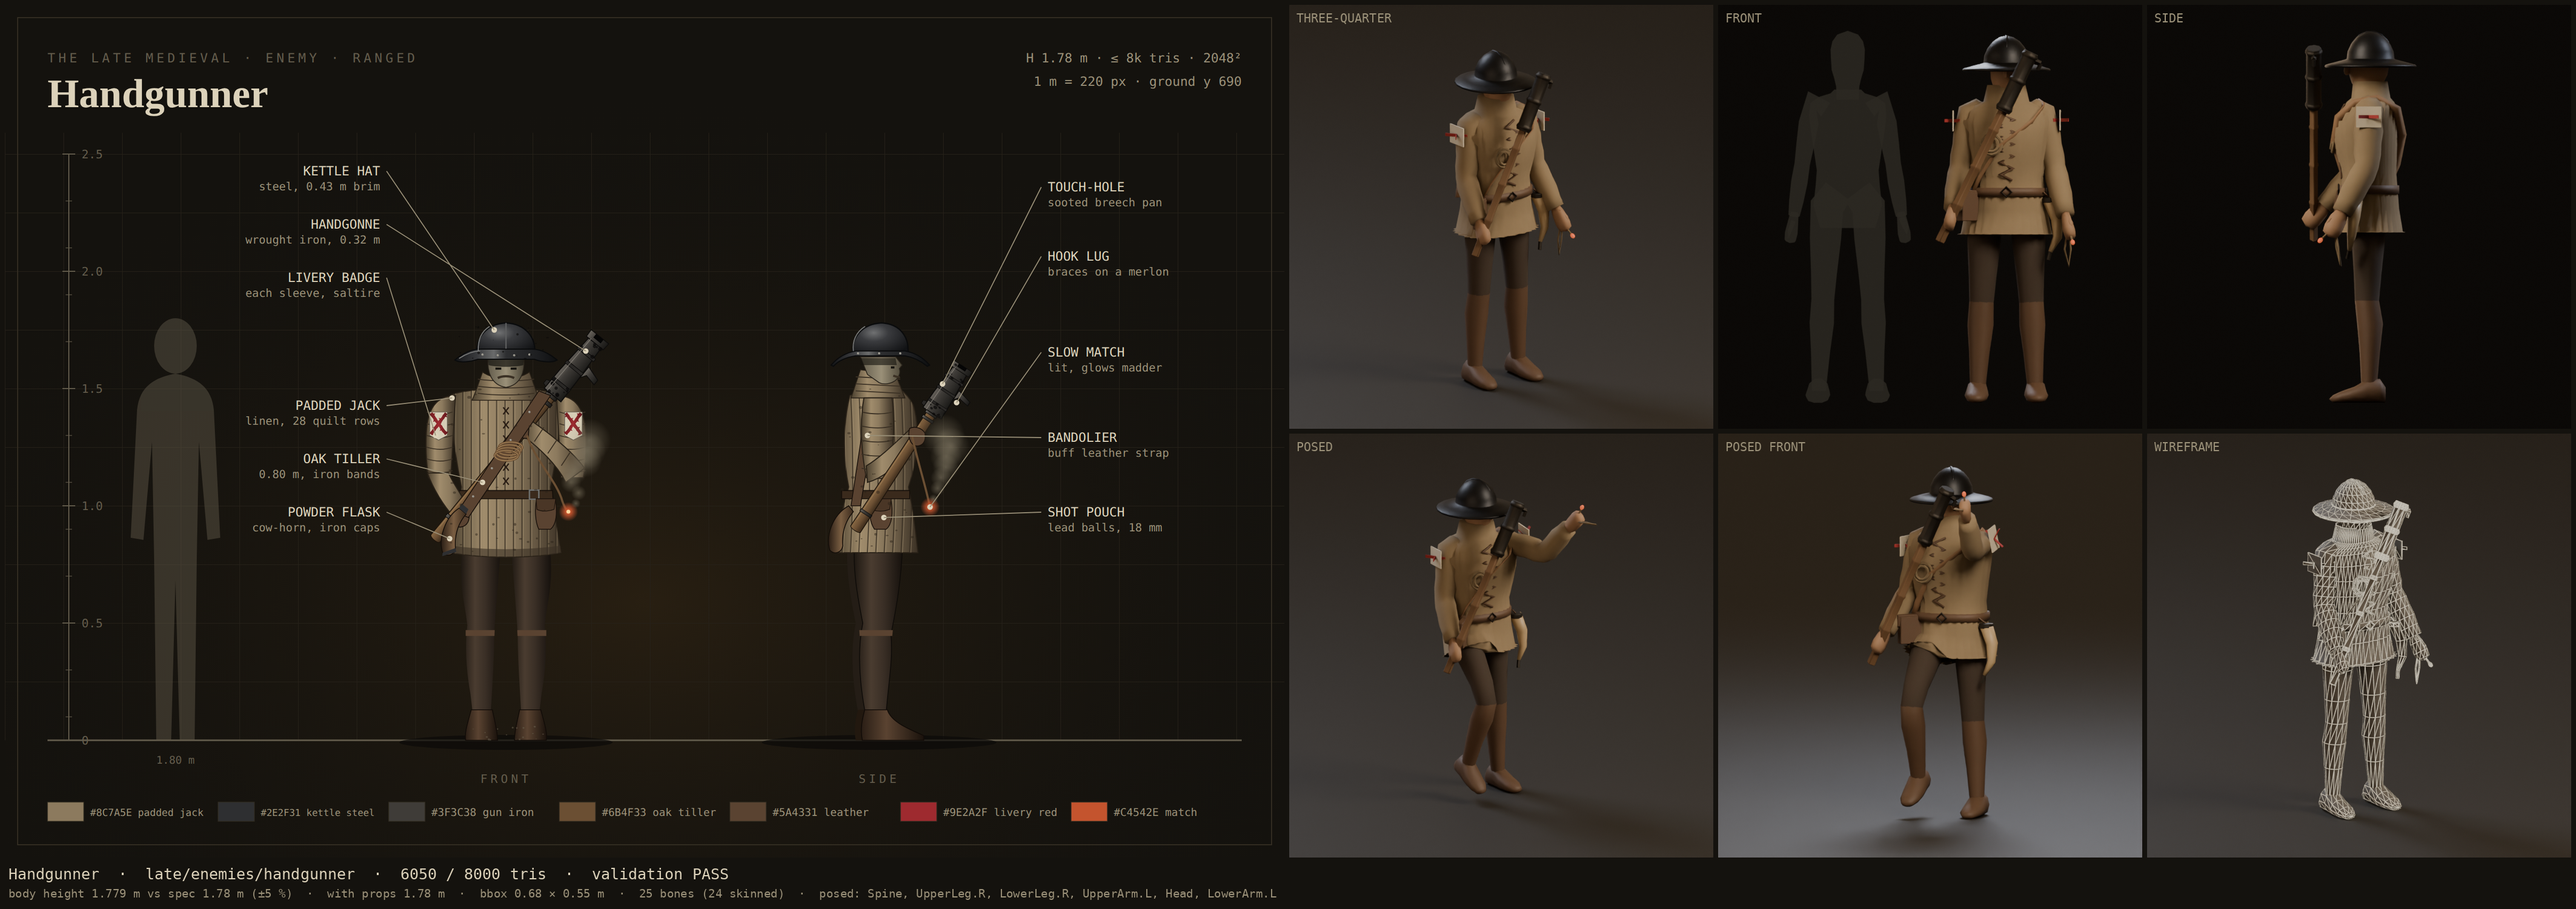
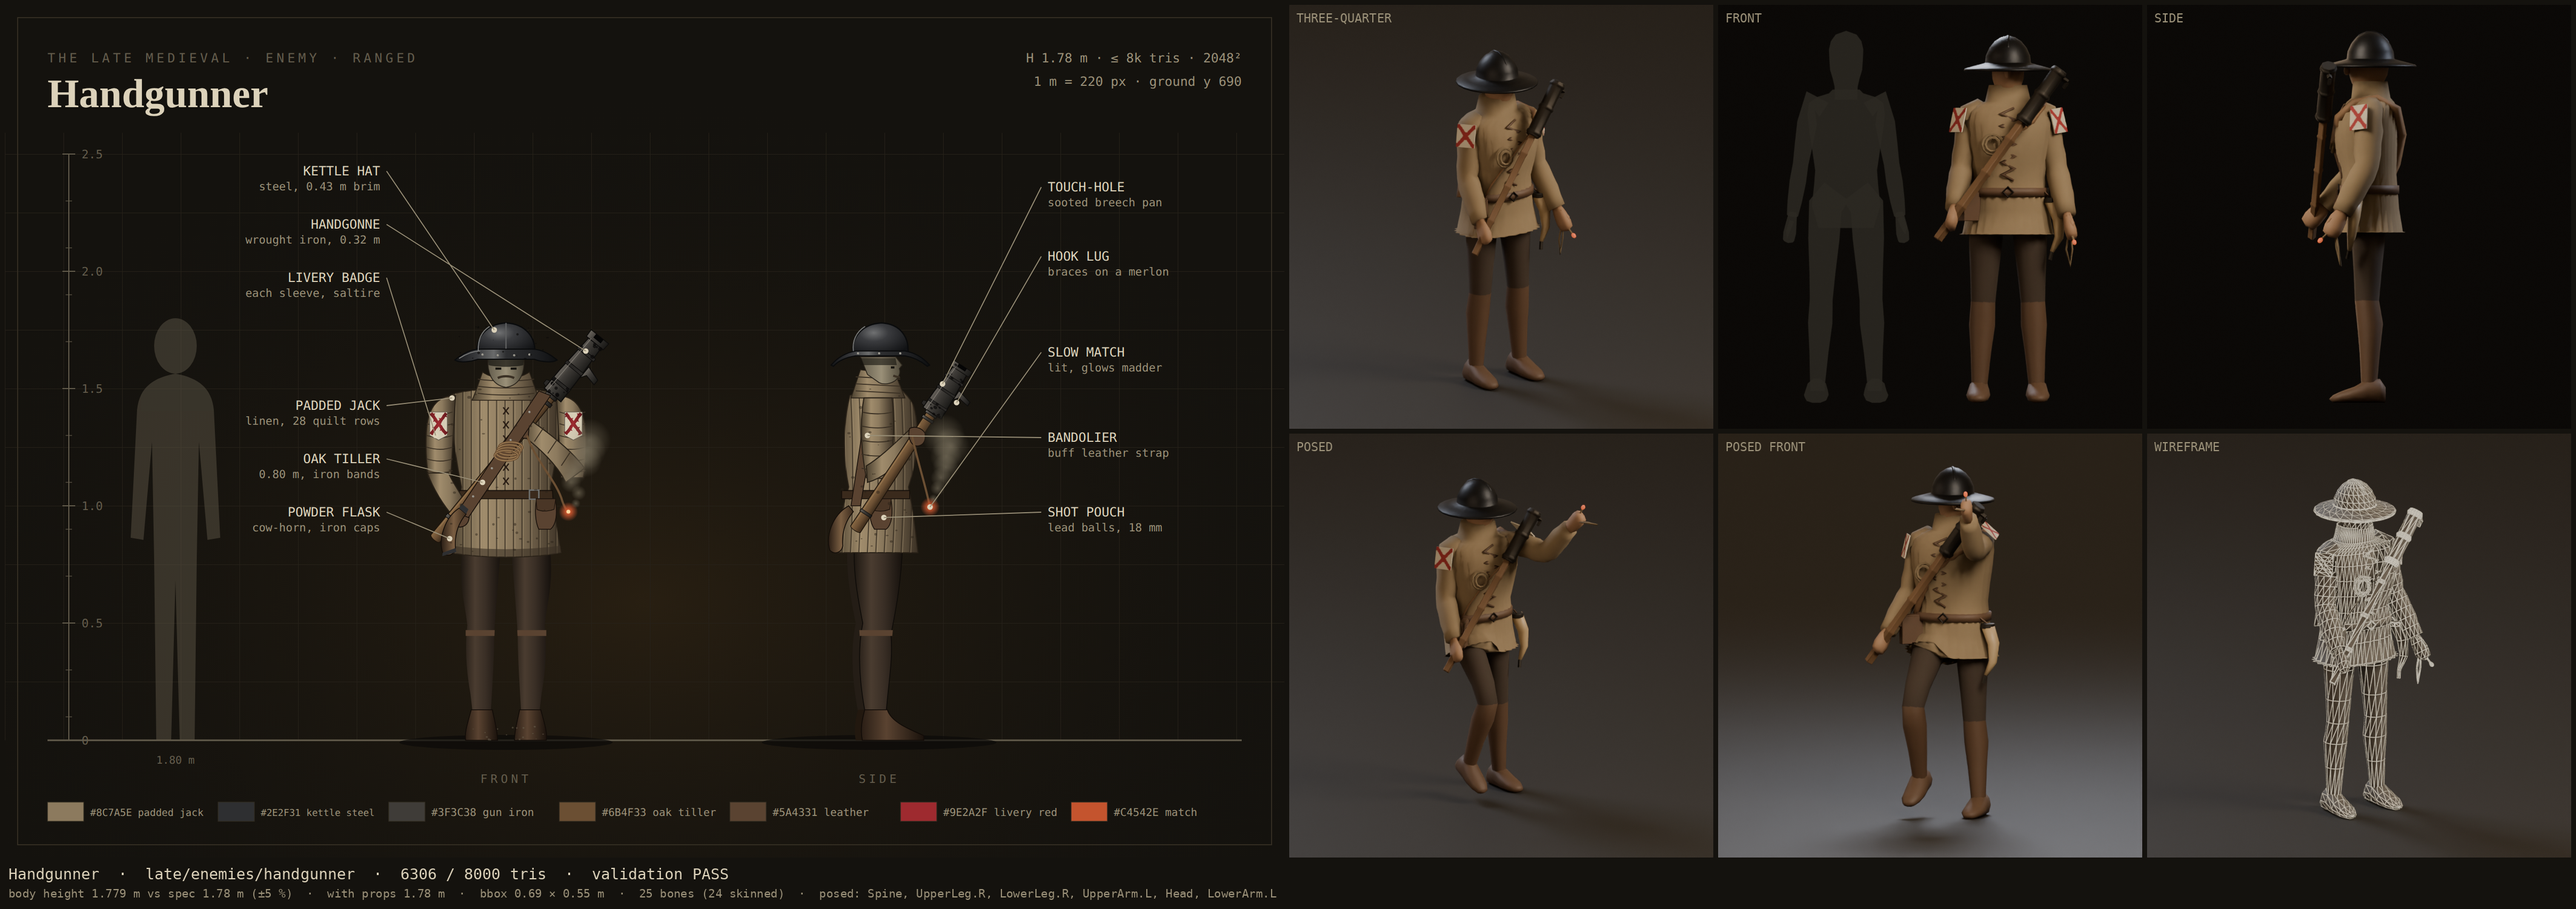
chore: auto-checkpoint work in progress
Paths watched: Tools/ArtForge Assets/Models/ArtBible/Enemies Assets/Models/ArtBible/artforge_manifest.json docs/art/models

Claude-Session: https://claude.ai/code/session_014LiHGbRYGYiFrULqqX1U1w

diff --git a/Tools/ArtForge/art_forge/blueprints/enemies_late.py b/Tools/ArtForge/art_forge/blueprints/enemies_late.py
@@ -570,7 +570,9 @@ def handgunner(entry: Entry):
         parts.append(fig.foot_part(side, "leather", length=0.27, point=0.2))
         parts += _badge(fig, side, 1.35, "livery_white", "livery_red")
     parts += fig.head_part("skin", features="leather")
-    parts += _kettle(fig, "kettle_steel", crown=1.78, r_dome=0.111, dome_h=0.14,
+    # dome 0.105 m: the brim sits at the brow, so the face shows under it (0.14 put
+    # the brim across the eyes)
+    parts += _kettle(fig, "kettle_steel", crown=1.78, r_dome=0.111, dome_h=0.105,
                      r_brim=0.215, droop=12.0, rivets=0)
     parts.append(_front_lacing(fig, pad, "leather", fig.belt_z + 0.05, 0.815 * h))
 
